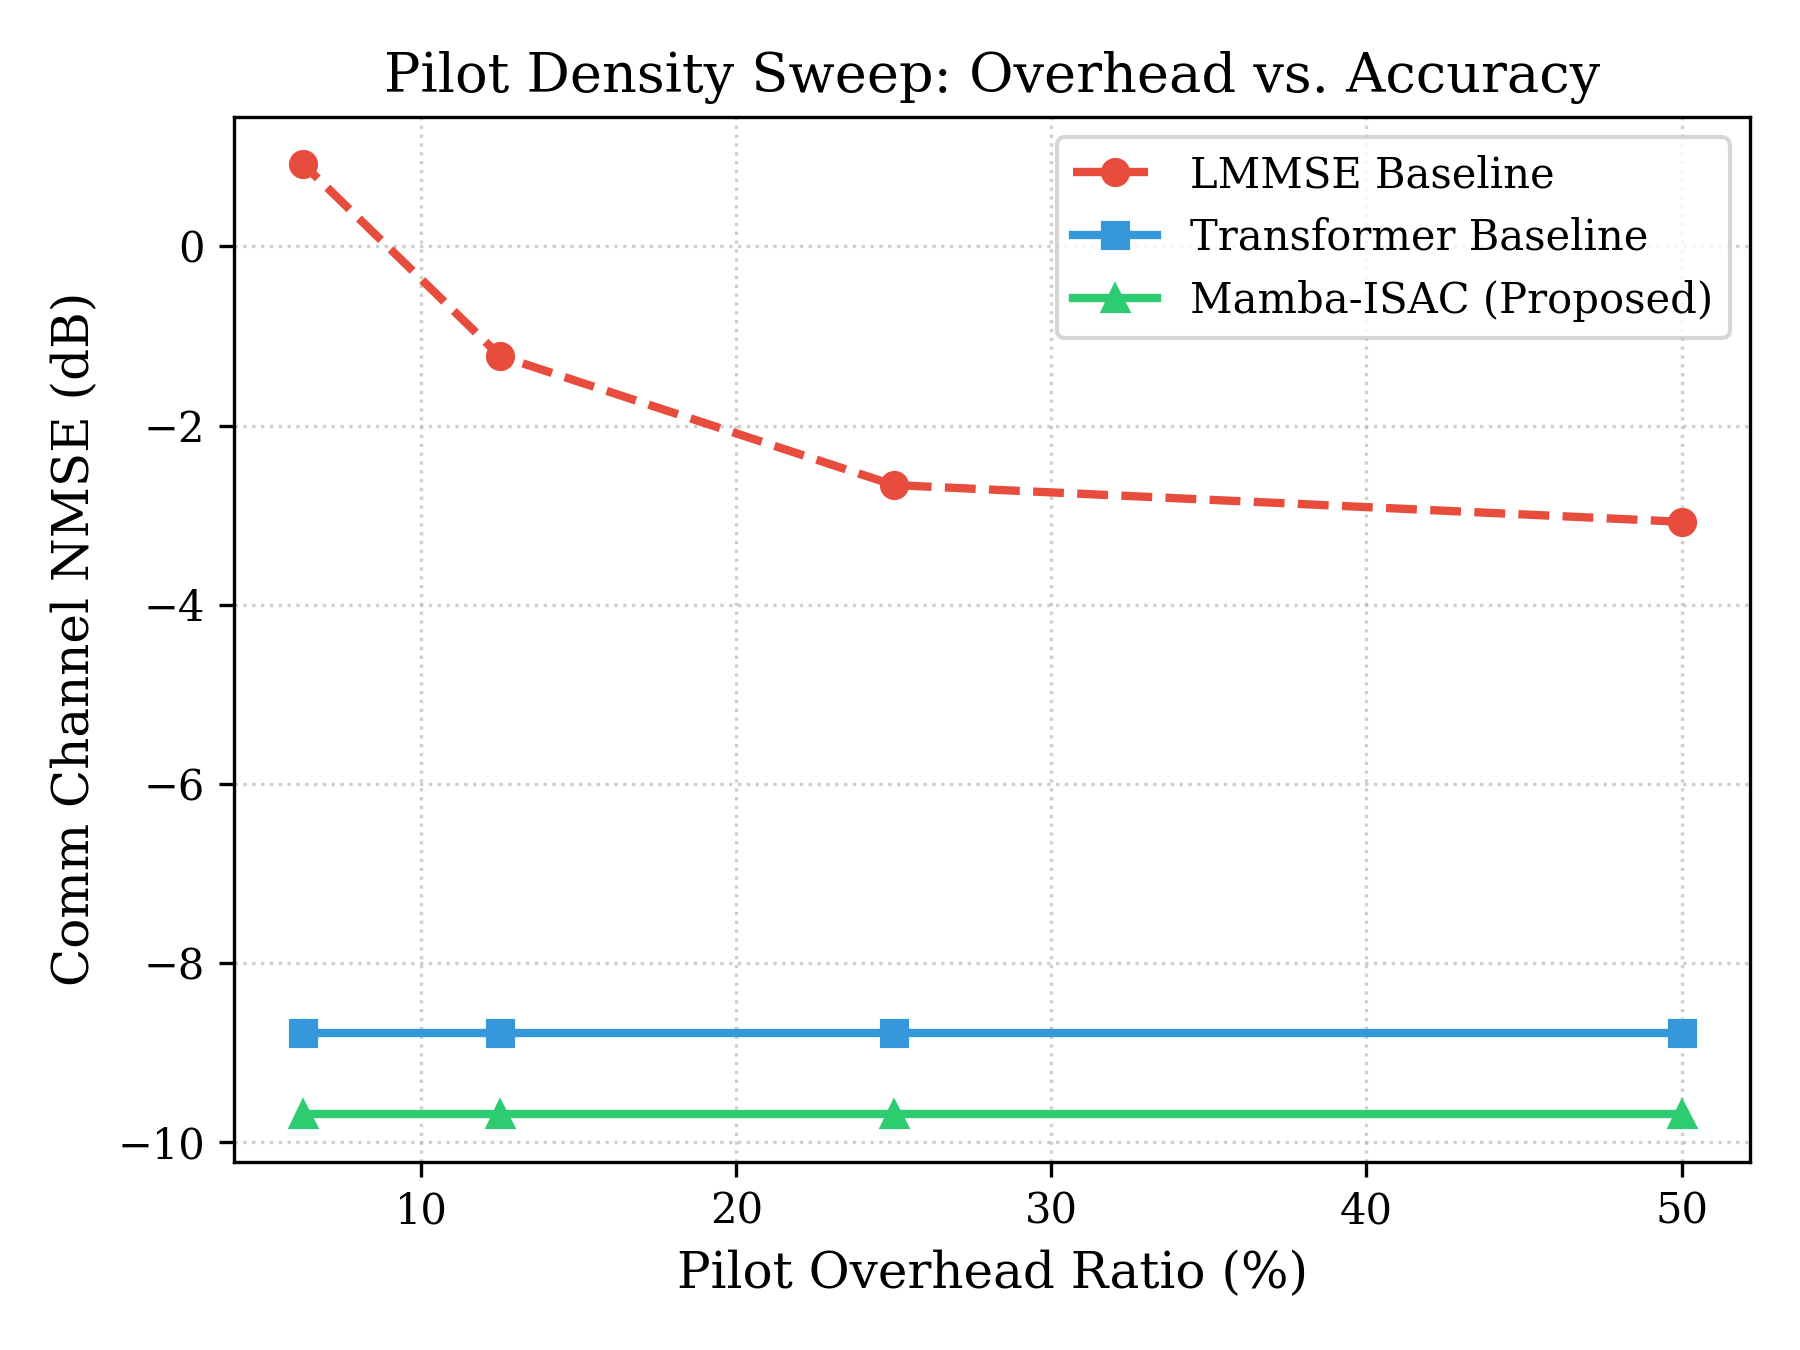
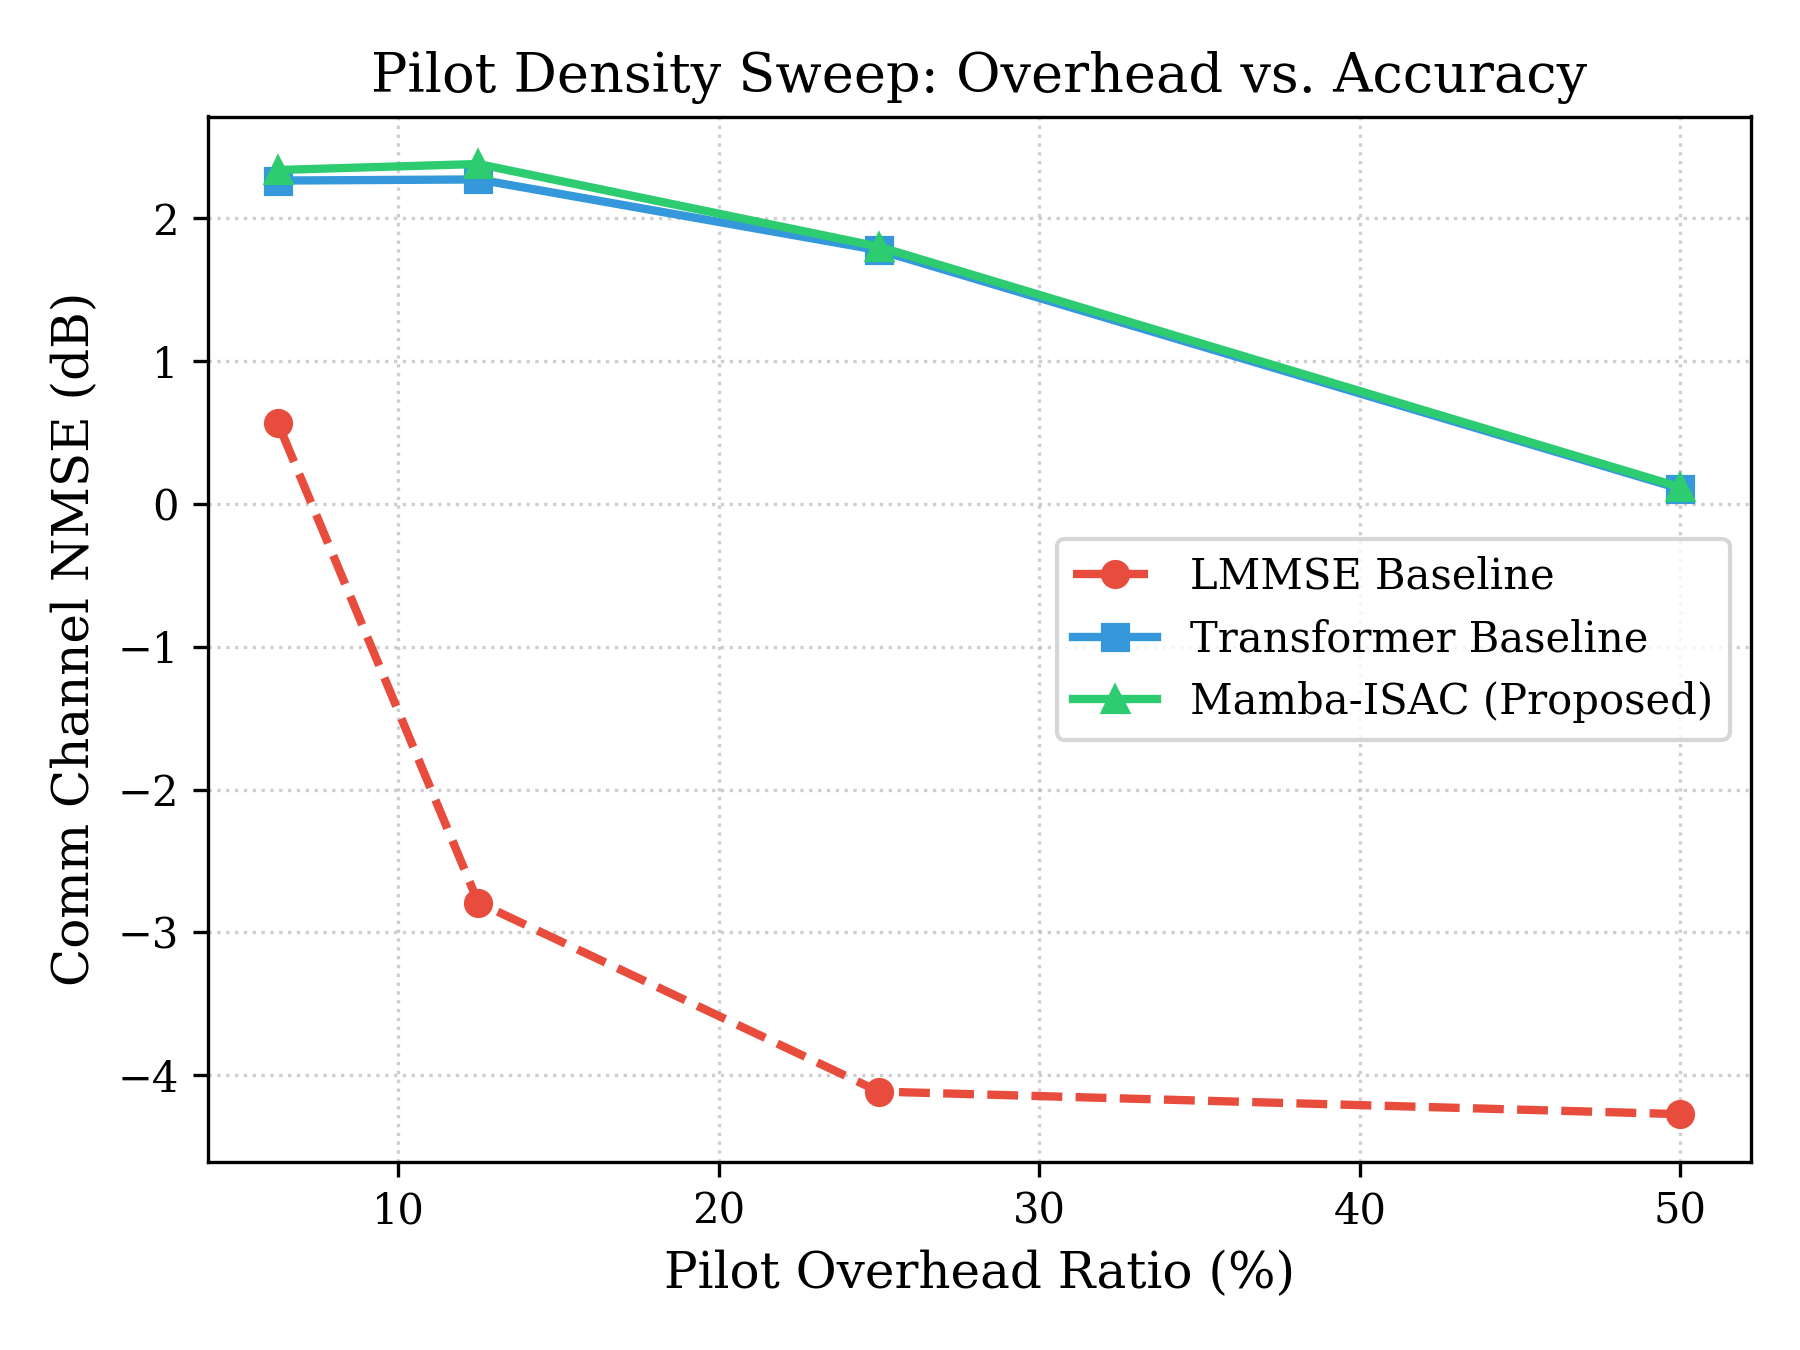
Regenerate all ablation figures against current pipeline and correctly mask Y_obs for pilot density sweeps

diff --git a/eval/ablation_pilot_density.py b/eval/ablation_pilot_density.py
@@ -53,9 +53,18 @@ def run_pilot_density_ablation(config_path: str = "configs/default_config.yaml")
             ckpt = torch.load(trans_ckpt, map_location=device)
             trans_model.load_state_dict(ckpt['model_state_dict'], strict=False)
         trans_model.eval()
+        # Apply pilot mask to Y_obs before feeding it to the networks
         Y_obs = test_ds.Y_obs.to(device)
+        pilot_mask = test_ds.pilot_mask.to(device)
+        
+        # Zero out non-pilot subcarriers: shape of Y_obs is (B, 2, Nr, Nt, Nc, T)
+        # pilot_mask is (Nc, T). We expand it to match Y_obs
+        pilot_mask_expanded = pilot_mask.unsqueeze(0).unsqueeze(0).unsqueeze(0).unsqueeze(0)
+        Y_obs_masked = Y_obs.clone()
+        Y_obs_masked[~pilot_mask_expanded.expand_as(Y_obs_masked)] = 0.0
+
         with torch.no_grad():
-            H_c_hat_trans, _, _ = trans_model(Y_obs)
+            H_c_hat_trans, _, _ = trans_model(Y_obs_masked)
             
         H_c_true = test_ds.H_c.numpy()
         H_c_hat_trans_np = H_c_hat_trans.cpu().numpy()
@@ -71,7 +80,7 @@ def run_pilot_density_ablation(config_path: str = "configs/default_config.yaml")
             mamba_model.load_state_dict(ckpt['model_state_dict'], strict=False)
         mamba_model.eval()
         with torch.no_grad():
-            H_c_hat_mamba, _, _ = mamba_model(Y_obs)
+            H_c_hat_mamba, _, _ = mamba_model(Y_obs_masked)
             
         H_c_hat_mamba_np = H_c_hat_mamba.cpu().numpy()
         nmse_mamba = compute_nmse_db(

diff --git a/data/dataset.py b/data/dataset.py
@@ -5,6 +5,7 @@ from typing import Dict, Any
 
 from data.comm_channel import CommunicationChannelGenerator
 from data.sensing_channel import SensingChannelGenerator
+from data.pilots import ISACPilotAllocator
 
 def generate_isac_samples(config: Dict[str, Any], num_samples: int = 100, seed: int = 42) -> Dict[str, np.ndarray]:
     """
@@ -41,6 +42,13 @@ def generate_isac_samples(config: Dict[str, Any], num_samples: int = 100, seed: 
     
     snr_db = float(config['comm_channel']['snr_db'])
     
+    pilot_alloc = ISACPilotAllocator(
+        num_subcarriers=Nc,
+        num_time_slots=T,
+        pilot_spacing=int(config['pilots']['pilot_spacing'])
+    )
+    _, pilot_mask = pilot_alloc.get_pilot_indices()
+    
     H_c, H_c_noisy = comm_gen.generate_channel(batch_size=num_samples, snr_db=snr_db)
     
     target_ranges = np.random.uniform(20.0, 100.0, size=num_samples)
@@ -67,6 +75,7 @@ def generate_isac_samples(config: Dict[str, Any], num_samples: int = 100, seed: 
     return {
         'Y_obs': Y_obs,             # Complex (num_samples, Nr, Nt, Nc, T)
         'H_c': H_c,                 # Complex (num_samples, Nr, Nt, Nc, T)
+        'pilot_mask': pilot_mask,   # Boolean (Nc, T)
         'range': target_ranges,     # Float (num_samples,)
         'velocity': target_velocities, # Float (num_samples,)
         'doppler': nu_s_arr         # Float (num_samples,)
@@ -82,6 +91,7 @@ class ISACDataset(Dataset):
         
         self.Y_obs = torch.tensor(Y_real_imag, dtype=torch.float32)
         self.H_c = torch.tensor(H_real_imag, dtype=torch.float32)
+        self.pilot_mask = torch.tensor(data_dict['pilot_mask'], dtype=torch.bool)
         self.range = torch.tensor(data_dict['range'], dtype=torch.float32)
         self.velocity = torch.tensor(data_dict['velocity'], dtype=torch.float32)
         self.doppler = torch.tensor(data_dict['doppler'], dtype=torch.float32)
@@ -93,6 +103,7 @@ class ISACDataset(Dataset):
         return {
             'Y_obs': self.Y_obs[idx],
             'H_c': self.H_c[idx],
+            'pilot_mask': self.pilot_mask,
             'range': self.range[idx],
             'velocity': self.velocity[idx],
             'doppler': self.doppler[idx]